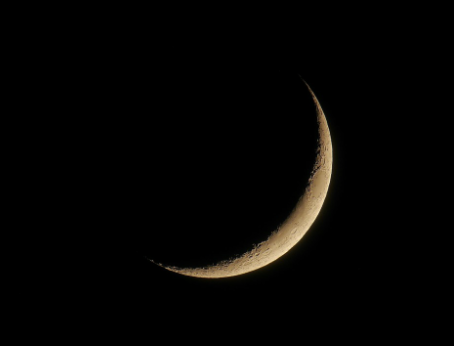
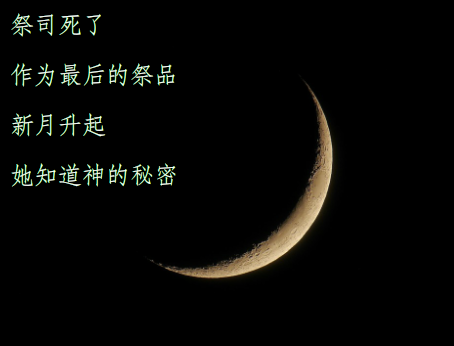
Nikola auto commit.
Source commit: e9a30c77cfad4673929c47f75ded416a9c045a2c
Nikola version: 8.0.1

diff --git a/index.html b/index.html
@@ -15,12 +15,9 @@
 <meta property="og:site_name" content="NULL">
 <meta property="og:title" content="Home">
 <meta property="og:url" content="/index.html">
-<meta property="og:description" content="祭司死了
-作为最后的祭品
-新月升起
-她知道神的秘密">
+<meta property="og:description" content="">
 <meta property="og:type" content="article">
-<meta property="article:published_time" content="2019-02-03T10:34:10+08:00">
+<meta property="article:published_time" content="2019-02-03T10:49:12+08:00">
 </head>
 <body>
     <a href="#content" class="sr-only sr-only-focusable">跳到主内容</a>
@@ -47,13 +44,7 @@
         
 
     </header><div class="e-content entry-content" itemprop="articleBody text">
-    <div>
-<p><img src="images/new-moon.png" style="width:100%; height:auto"></p>
-<p>祭司死了</p>
-<p>作为最后的祭品</p>
-<p>新月升起</p>
-<p>她知道神的秘密</p>
-</div>
+    <p><img src="images/new-moon.png" style="width:100%; height:auto"></p>
     </div>
     
 

diff --git a/index.md b/index.md
@@ -4,11 +4,3 @@
 -->
 
 <img src="/images/new-moon.png" style="width:100%; height:auto" />
-
-祭司死了
-
-作为最后的祭品
-
-新月升起
-
-她知道神的秘密
